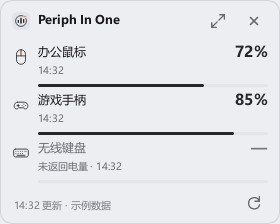
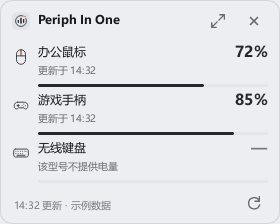
feat: tell battery-private devices apart from unresponsive ones
A linked KZZI K75 answers identity but its firmware never answers the
0x4A battery query, so the panel called a connected keyboard 未响应.
Adapters now report the verified model trait via Outcome.no_battery:
such devices count as connected and show — with 该型号不提供电量,
while 未响应 stays reserved for devices that answered nothing. The
K75 RGB key PSD is the only live-verified entry; other profiles keep
the conservative reading (keyboard may be off).

diff --git a/tests/core.rs b/tests/core.rs
@@ -14,6 +14,7 @@ fn reading(physical: &str, serial: &str, battery: Option<u8>) -> Reading {
         vid: 0x373b,
         pid: 0x1216,
         battery,
+        no_battery: false,
         message: String::new(),
     }
 }
@@ -32,6 +33,7 @@ fn gamepad_reading(physical: &str, uid: &str, pid: u16, battery: Option<u8>) -> 
         vid: 0x413d,
         pid,
         battery,
+        no_battery: false,
         message: String::new(),
     }
 }
@@ -183,6 +185,32 @@ fn kzzi_identity_reply_yields_the_model_signature() {
     assert_eq!(kzzi_identity(&reply[..9]), None);
     // A battery reply is not an identity reply.
     assert_eq!(kzzi_identity(kzzi_request(0x4a).as_slice()), None);
+}
+
+#[test]
+fn kzzi_battery_private_covers_only_the_verified_profile() {
+    // Kzzi-K75 RGB key, live-verified silent on 0x4A while linked.
+    assert!(kzzi_battery_private(&[2, 0, 0, 0, 0, 55]));
+    // The K75 RGB sibling and unknown profiles stay unverified: silence
+    // there may still mean the keyboard is off.
+    assert!(!kzzi_battery_private(&[2, 0, 0, 0, 0, 54]));
+    assert!(!kzzi_battery_private(&[9, 9, 9, 9, 9, 9]));
+    assert!(!kzzi_battery_private(&[]));
+}
+
+#[test]
+fn battery_private_devices_stay_fresh_without_inventing_values() {
+    let mut linked = reading("usb-port-a", "SN-K75", None);
+    linked.no_battery = true;
+    let devices = model::merge_readings(&[], vec![linked], 100);
+    assert!(devices[0].present);
+    assert!(devices[0].fresh);
+    assert_eq!(devices[0].saved.battery, None);
+    assert_eq!(devices[0].saved.last_success, None);
+    // A battery-capable device that stays silent is not fresh.
+    let silent = model::merge_readings(&[], vec![reading("usb-port-b", "SN-K68", None)], 100);
+    assert!(silent[0].present);
+    assert!(!silent[0].fresh);
 }
 
 #[test]

diff --git a/src/app.rs b/src/app.rs
@@ -208,6 +208,7 @@ impl App {
                         .into(),
                     level: saved.battery.unwrap_or(0).min(100) as f32 / 100.0,
                     fresh: device.fresh,
+                    has_battery: device.fresh && saved.battery.is_some(),
                     present: device.present,
                     status: if device.fresh {
                         "已连接".into()
@@ -253,19 +254,19 @@ impl App {
                 .devices
                 .iter()
                 .map(|d| {
-                    format!(
-                        "{}：{}{}",
-                        fallback_name(d),
-                        d.saved
-                            .battery
-                            .map(|b| format!("{b}%"))
-                            .unwrap_or("—".into()),
-                        if d.fresh {
-                            ""
-                        } else {
-                            "（上次读数 / 未响应）"
-                        }
-                    )
+                    let level = d
+                        .saved
+                        .battery
+                        .map(|b| format!("{b}%"))
+                        .unwrap_or("—".into());
+                    let note = if !d.fresh {
+                        "（上次读数 / 未响应）"
+                    } else if d.saved.battery.is_none() {
+                        "（不提供电量）"
+                    } else {
+                        ""
+                    };
+                    format!("{}：{}{}", fallback_name(d), level, note)
                 })
                 .collect::<Vec<_>>()
                 .join("\n");

diff --git a/examples/readme_screenshots.rs b/examples/readme_screenshots.rs
@@ -22,6 +22,8 @@ fn main() -> Result<(), Box<dyn std::error::Error>> {
             "373B:1216",
             "72%",
             0.72,
+            true,
+            "更新于 14:32",
         ),
         (
             "游戏手柄",
@@ -30,6 +32,8 @@ fn main() -> Result<(), Box<dyn std::error::Error>> {
             "413D:2104",
             "85%",
             0.85,
+            true,
+            "更新于 14:32",
         ),
         (
             "无线键盘",
@@ -38,26 +42,24 @@ fn main() -> Result<(), Box<dyn std::error::Error>> {
             "3554:FA09",
             "—",
             0.0,
+            true,
+            "该型号不提供电量",
         ),
     ]
     .into_iter()
     .map(
-        |(title, kind, hardware, usb, percentage, level)| DeviceRow {
+        |(title, kind, hardware, usb, percentage, level, fresh, updated)| DeviceRow {
             title: title.into(),
             kind: kind.into(),
             hardware_name: hardware.into(),
             usb_id: format!("VID: 0x{} · PID: 0x{}", &usb[..4], &usb[5..]).into(),
             percentage: percentage.into(),
             level,
+            has_battery: fresh && level > 0.0,
+            fresh,
             present: true,
-            fresh: level > 0.0,
-            status: if level > 0.0 {
-                "已连接"
-            } else {
-                "未返回电量"
-            }
-            .into(),
-            updated: "14:32".into(),
+            status: if fresh { "已连接" } else { "未响应" }.into(),
+            updated: updated.into(),
             alias: title.into(),
             ..Default::default()
         },

diff --git a/src/model.rs b/src/model.rs
@@ -28,6 +28,9 @@ pub struct Reading {
     pub vid: u16,
     pub pid: u16,
     pub battery: Option<u8>,
+    /// The adapter verified this device is live but its model provides no
+    /// battery reading; it stays fresh without a value.
+    pub no_battery: bool,
     pub message: String,
 }
 
@@ -250,7 +253,7 @@ pub fn merge_readings(saved: &[SavedDevice], readings: Vec<Reading>, now: u64) -
         device.saved.pid = reading.pid;
         device.saved.identity_conflict |= conflict;
         device.present = true;
-        device.fresh = reading.battery.is_some_and(|level| level <= 100);
+        device.fresh = reading.battery.is_some_and(|level| level <= 100) || reading.no_battery;
         device.message = reading.message;
         if let Some(battery) = reading.battery.filter(|b| *b <= 100) {
             device.saved.battery = Some(battery);

diff --git a/src/protocol.rs b/src/protocol.rs
@@ -216,6 +216,15 @@ pub fn kzzi_model_name(psd: &[u8]) -> Option<&'static str> {
     })
 }
 
+/// PSDs of models verified live to keep their battery private: the 0x4A
+/// query stays unanswered even while the keyboard is linked, so a missing
+/// reading is the model's trait rather than a dead link. Silence on any
+/// other profile may still mean the keyboard is off.
+pub fn kzzi_battery_private(psd: &[u8]) -> bool {
+    // Kzzi-K75 RGB key, verified on the 3554:FA09 receiver.
+    matches!(psd, [2, 0, 0, 0, 0, 55])
+}
+
 /// BIGBIG WON (Zikway) controller short frames over the FF7A vendor interface.
 /// The wire report is 65 bytes with report id 0; the payload starts with 0xA5,
 /// byte 1 is the total frame length including A5 and the trailing additive sum

diff --git a/src/devices.rs b/src/devices.rs
@@ -447,6 +447,7 @@ pub fn scan() -> Result<Vec<Reading>, String> {
             vid: info.vendor_id(),
             pid: info.product_id(),
             battery: outcome.battery,
+            no_battery: outcome.no_battery,
             message: outcome.message,
         });
     }

diff --git a/docs/ADAPTATION.md b/docs/ADAPTATION.md
@@ -40,6 +40,8 @@
 - `BATTERY`：电量读取，当前唯一已实现能力。
 - `LIGHTING`、`CONFIGURATION`：预留位。灯效、DPI、改键等写命令的帧格式记录在 probe 研究注释中；写路径落地前，任何适配器不得声明这些能力。
 
+能力按产品线声明；线内个别型号不提供电量（如 KZZI K75）由适配器按型号甄别后经 `Outcome.no_battery` 上报，UI 据此区分在线不提供电量与未响应。
+
 ## 5. 适配流程
 
 1. **研究先行**：写 `examples/probe_<vendor>.rs`（模板：`examples/probe_bigbigwon.rs`；多厂商命令空间扫描参照 `probe_identity.rs`）。参数化帧构造器先进 `protocol.rs`，probe 从库导入，不携带副本。结论写在 probe 顶部 doc comment，注明来源与许可。
@@ -83,6 +85,8 @@
 **识别锚点**：接收器 = FF02/0002 + 20 字节 Input/Output 报表 + 报表 ID 0x13（厂商五重 caps 校验），通用 VID 0x258A 绝不能只按 VID 匹配；有线 = VID/PID（Cfg.ini 表内）+ FF00/01 或 FF02/01 或 FF02/02 + feature 报表长度 0x208，报表 ID 从 caps 派生。型号身份 = 新代档案的 Psd 六字节键（GetPSD cmd 0x05 应答与 KB.ini Psd= 同源），与主应用 `kzzi_model_name` 表交叉验证一致（注意 KB.ini 为十六进制文本、表内为十进制）。01C8/01DA/024D 三个档案缺 Psd，为异常档案。
 
 **电量（复查修正后口径）**：接收器路径的 0x4A 命令在本驱动中有包装函数（0x40E560：发 20 字节帧、回读两字节，与 `kzzi_battery` 的 (level, state) 形态一致；静态可达性未证，虚调用槽 +0xA0 的 8 处 UI 区调用点未能绑定设备对象）。主应用的 0x4A 实现来自真机探测，与此静态锚点互相印证。有线路径的电量（0x87 双页读）未实测。原报告的本驱动无 0x4A、电量仅有线路径两条结论被复查推翻或降档。
+
+**在线/未响应口径（真机）**：接收器应答 0x05 身份即视为在线。0x4A 无应答有两种含义——固件不提供电量的型号（K75 RGB key，Psd `[2,0,0,0,0,55]`，真机验证）经 `protocol::kzzi_battery_private` 标记为主应用显示已连接 · 该型号不提供电量；其余型号无应答仍按未响应处理（可能键盘关机），待真机逐一验证后再加入标记。
 
 **收录决策**：56 个 258A 型号全部是有线本体 PID，接收器形态已被 3554:FA09 适配覆盖；按第 3 节规则有线型号不进 matcher，全表进附录 A，接收器识别的最终锚点沿用 caps 事实而非 VID。
 
